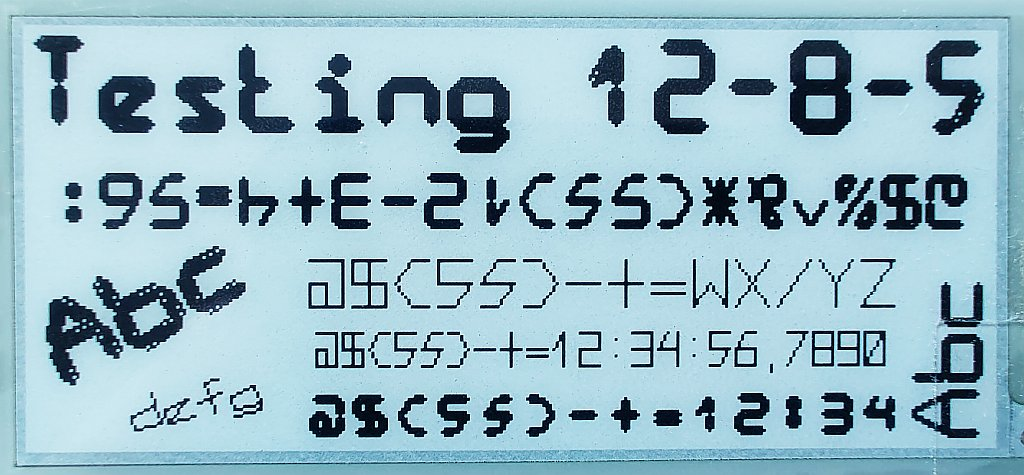
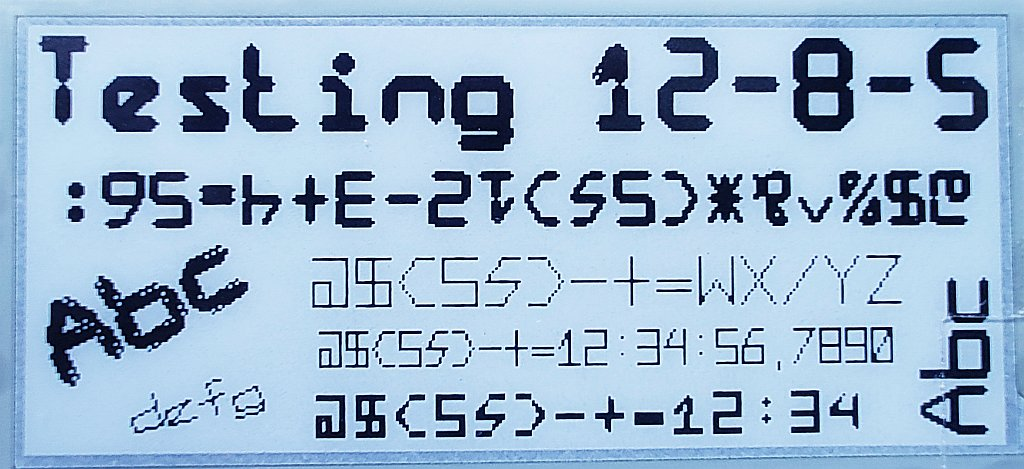
documentation and test update

diff --git a/test.py b/test.py
@@ -31,29 +31,32 @@ black = 0
 white = 1
 
 # Original FrameBuffer functions
+'''
 fb.fill(white)
 fb.text('Hello World',30,0,black)
+fb.text('Original FrameBuffer text',30,10,black)
 fb.pixel(30, 10, black)
 fb.hline(30, 30, 10, black)
 fb.vline(30, 50, 10, black)
 fb.line(30, 70, 40, 80, black)
 fb.rect(30, 90, 10, 10, black)
 fb.fill_rect(30, 110, 10, 10, black)
-fb.text('Original',30,130,black)
-fb.text('FrameBuffer',30,140,black)
 for row in range(0,36):
 	fb.text(str(row),0,row*8,black)
 fb.text('Line 36',0,288,black)
 e.set_frame_memory(buf, x, y, w, h)
 e.display_frame()
 input("Original FrameBuffer functions (press Enter to continue)")
+'''
 
 # Drawing Hexagons I4 
 fb.fill(white)
 fb.hexagonI4(50,20,80,40,5,black)
 fb.hexagonI4(50,50,80,80,5,black)
 fb.hexagonI4(30,100,80,100,5,black)
-fb.hexagonI4(30,200,100,200,9,black)
+fb.hexagonI4(30,190,100,190,9,black)
+fb.hexagonI4(30,205,100,205,7,black)
+fb.hexagonI4(30,220,100,220,6,black)
 fb.hexagonI4(30,230,100,230,5,black)
 fb.hexagonI4(30,240,100,240,4,black)
 fb.hexagonI4(30,250,100,250,3,black)
@@ -121,7 +124,7 @@ fb.setText32(7,5,1,90,2)
 fb.putText32('@$(5S)-+=WX/YZ',50,90,black)
 fb.setText32(5,3,1,90,1)
 fb.putText32('@$(5S)-+=12:34:56,7890',30,90,black)
-fb.setText32(5,4,3,90,2)
+fb.setText32(5,4,2,90,2)
 fb.putText32('@$(5S)-+=12:34',10,90,black)
 fb.setText32(10,6,3,0,2)
 fb.putText32('Abc',10,280,black)

diff --git a/README.md b/README.md
@@ -5,6 +5,7 @@ FrameBuffer class extension with sizable font with any rotation
 - hexagonI4 [test2](doc/test2.jpg)
 - letters [test3](doc/test3.jpg)
 - numbers and special characters [test4](doc/test4.jpg)
+- characters outside the basic ASCII [test5](doc/test5.jpg)
 
 ## fb_plus expands FrameBuffer by:
 
